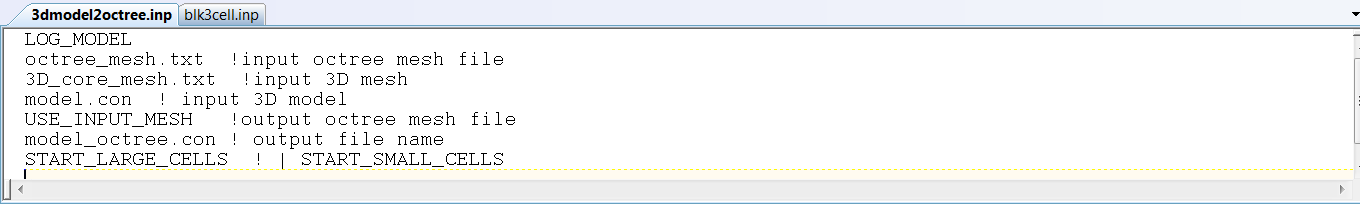
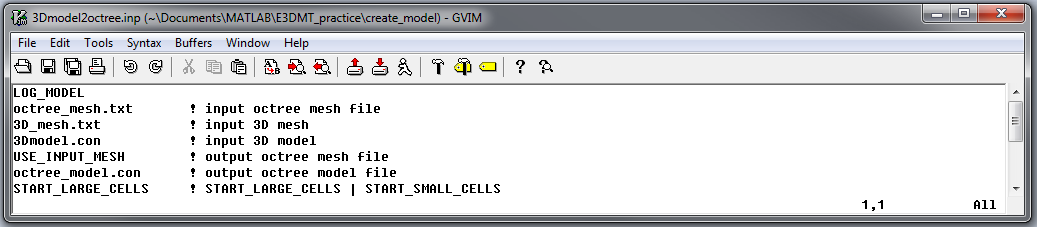
Updates for file types and running programs

diff --git a/content/programs/createModel.rst b/content/programs/createModel.rst
@@ -3,15 +3,15 @@
 Create Model
 ============
 
-Conductivity models used within the forward modeling and inversion codes are generated by carrying out a 2-step process. First, the program **blk3cell.exe** is executed to creates a conductivity model on the core 3D tensor mesh which was output by the code :ref:`MTcreate_octree_mesh_e3d.exe<e3dmt_octree>`; see :ref:`outputs<e3dmt_octree_output>`. This model is comprised of a set of overlapping rectangular blocks whose locations, dimensions and conductivities are specified in **blk3cell.inp**.
+:ref:`Models<modelFile>` (conductivity/susceptibility/active) used within the forward modeling and inversion codes are generated by carrying out a 2-step process. First, the program **blk3cell.exe** is executed to create a model on the base 3D :ref:`tensor mesh<tensorFile>` (**3D_mesh.txt**) which was output by the code :ref:`MTcreate_octree_mesh_e3d.exe<e3dmt_octree>`; see :ref:`outputs<e3dmt_octree_output>`. This model is comprised of a set of overlapping rectangular blocks whose locations, dimensions and values are specified within **blk3cell.inp**.
 
-Next, **3Dmodel2octree.exe** is used to interpolate the tensor model onto an Octree mesh. The tensor mesh (**3D_core_mesh.txt**), tensor conductivity model (**3Dmodel.con**) and octree mesh (**octree_mesh.txt**) are specified in the file **3Dmodel2octree.inp**.
+Next, **3Dmodel2octree.exe** is used to interpolate the tensor model onto an :ref:`Octree mesh<octreeFile>`. The tensor mesh (**3D_mesh.txt**), tensor :ref:`model<modelFile>` (**3Dmodel.con**) and octree mesh (**octree_mesh.txt**) are specified in the file **3Dmodel2octree.inp**.
 
 
 Running blk3cell
 ----------------
 
-To generate the tensor model on the core tensor mesh, open a command line window in the directory which contains the input files (**blk3cell.inp** and **3D_core_mesh.txt**). In order, enter the path to **blk3cell.exe**, followed by the core mesh file name (**3D_core_mesh.txt**), followed by the input file (**blk3cell.inp**), followed by the desired name for the output conductivity model file (**3Dmodel.con**), all separated by spaces.
+To generate the tensor model on the core tensor mesh, open a command window. In order, enter the path to **blk3cell.exe**, followed by the path to the tensor mesh file name (**3D_mesh.txt**), followed by the path to the input file (**blk3cell.inp**), followed by the desired name (or full path) for the output model file (**3Dmodel.con**), all separated by spaces. 
 
 .. figure:: images/run_create_model.png
      :align: center
@@ -23,20 +23,20 @@ To generate the tensor model on the core tensor mesh, open a command line window
 Input File
 ^^^^^^^^^^
 
-The file **blk3cell.inp** defines the conductivity model. The user specifies the location, dimensions and conductivities for a set of blocks. All undefined regions cells within the mesh are set to the background conductivity value. The format for this file is as follows:
+The file **blk3cell.inp** defines the model (conductivity/susceptibility/active). The user specifies the locations, dimensions and values for a set of blocks. All undefined cells within the mesh are set to the background value. The format for this file is as follows:
 
 |
-| :math:`\sigma_b \;\;\;\;\;\;\;\;\;\;\;\;\;\;\;\;\;\;\;\;\;\;\;\;`  ! background conductivity
-| :math:`N \;\;\;\;\;\;\;\;\;\;\;\;\;\;\;\;\;\;\;\;\;\;\;\;`  ! number of blocks
-| :math:`x_1^{(1)} \;\;  x_2^{(1)} \;\; y_1^{(1)} \;\; y_2^{(1)} \;\; z_1^{(1)} \;\; z_2^{(1)} \;\; \sigma^{(1)} \;\;\;\;\;\;\;\;\;\;\;\;` ! Block 1
-| :math:`x_1^{(2)} \;\;  x_2^{(2)} \;\; y_1^{(2)} \;\; y_2^{(2)} \;\; z_1^{(2)} \;\; z_2^{(2)} \;\; \sigma^{(2)} \;\;\;\;\;\;\;\;\;\;\;\;` ! Block 2
+| :math:`\sigma_b \;\;\;\;\;\;\;\;\;\;\;\;\;\;\;\;\;\;\;\;\;\;\;\;\;\;\;\;\;\;\;\;\;\;\;\;\;\;\;\;\;\;\;\;\;\;\;\;`  ! background conductivity/susceptibility
+| :math:`N \;\;\;\;\;\;\;\;\;\;\;\;\;\;\;\;\;\;\;\;\;\;\;\;\;\;\;\;\;\;\;\;\;\;\;\;\;\;\;\;\;\;\;\;\;\;\;\;`  ! number of blocks
+| :math:`x_1^{(1)} \;\;  x_2^{(1)} \;\; y_1^{(1)} \;\; y_2^{(1)} \;\; z_1^{(1)} \;\; z_2^{(1)} \;\; m^{(1)} \;\;\;\;\;\;\;\;\;\;\;\;` ! Block 1
+| :math:`x_1^{(2)} \;\;  x_2^{(2)} \;\; y_1^{(2)} \;\; y_2^{(2)} \;\; z_1^{(2)} \;\; z_2^{(2)} \;\; m^{(2)} \;\;\;\;\;\;\;\;\;\;\;\;` ! Block 2
 | :math:`\;\;\;\;\;\;\;\;\;\;\;\;\;\;\;\;\;\;\;\;\;\;\;\; \vdots`
-| :math:`x_1^{(N)} \;\;  x_2^{(N)} \;\; y_1^{(N)} \;\; y_2^{(N)} \;\; z_1^{(N)} \;\; z_2^{(N)} \;\; \sigma^{(N)} \;\;\;\;\;\;\;\;\;\;\;\;` ! Block N
+| :math:`x_1^{(N)} \;\;  x_2^{(N)} \;\; y_1^{(N)} \;\; y_2^{(N)} \;\; z_1^{(N)} \;\; z_2^{(N)} \;\; m^{(N)} \;\;\;\;\;\;\;\;\;\;\;\;` ! Block N
 |
 |
 |
 
-where superscript :math:`(i)` for :math:`i=1,2,...,N` refers to a particular block. :math:`x_1,x_2,y_1,y_2,z_1` and :math:`z_2` define the nodes of each block and :math:`\sigma` defines the conductivity. An example is shown below.
+where superscript :math:`(i)` for :math:`i=1,2,...,N` refers to a particular block. :math:`x_1,x_2,y_1,y_2,z_1` and :math:`z_2` define the nodes of each block and :math:`m` defines conductivity/susceptibility value. An example is shown below.
 
 
 .. figure:: images/e3dmt_blk3cell_input.png
@@ -47,13 +47,13 @@ where superscript :math:`(i)` for :math:`i=1,2,...,N` refers to a particular blo
 Output
 ^^^^^^
 
-**blk3cell.exe** outputs a conductivity model (**3Dmodel.con**) which contain a single conductivity value for each cell in the tensor mesh **3D_core_mesh.txt**.
+**blk3cell.exe** outputs a :ref:`model<modelFile>` (**3Dmodel.con**) which contains a single value for each cell in the tensor mesh **3D_mesh.txt**.
 
 
 Running 3Dmodel2Octree
 ----------------------
 
-To interpolate the model from a tensor mesh to an Octree mesh, open a command line window in the directory which contains the input files (**3Dmodel2octree.inp**, **octree_mesh.txt**, **3D_core_mesh.txt** and **3Dmodel.con**). Enter the path to **3DModel2Octree.exe** followed by a space followed by **3Dmodel2octree.inp**; the mesh and conductivity information is specified in the input file.
+To interpolate the model from a tensor mesh to an Octree mesh, open a command window. Enter the path to **3DModel2Octree.exe** followed by a space followed by the path to **3Dmodel2octree.inp**; the mesh and conductivity information is specified in the input file.
 
 
 .. figure:: images/run_3Dmodel2octree.png
@@ -64,13 +64,13 @@ To interpolate the model from a tensor mesh to an Octree mesh, open a command li
 Input File
 ^^^^^^^^^^
 
-The file **Model2Octree.inp** contains the paths to the tensor mesh (**3D_core_mesh.txt**), tensor conductivity model (**3Dmodel.con**) and octree mesh (**octree_mesh.txt**) as well as other necessary parameters. The format of the input file is as follows:
+The file **Model2Octree.inp** contains the paths to the tensor mesh (**3D_mesh.txt**), tensor model (**3Dmodel.con**) and octree mesh (**octree_mesh.txt**) as well as other necessary parameters. The format of the input file is as follows:
 
 |
 | :math:`Model \; Type \;\;\;\;\;\;\;\;\;` ! Either *LIN_MODEL* or *LOG_MODEL*
 | :math:`Octree \; mesh\;\;\;\;\;\;\;\;\;` ! File path to Octree mesh
 | :math:`Tensor \; mesh\;\;\;\;\;\;\;\;\;` ! File path to tensor mesh
-| :math:`Tensor \; model\;\;\;\;\;\;\;\;\;` ! 3D conductivity more on tensor mesh
+| :math:`Tensor \; model\;\;\;\;\;\;\;\;\;` ! 3D model on tensor mesh
 | :math:`Output \; mesh \; name\;\;\;\;\;\;\;\;\;` ! Name for duplicate Octree mesh or enter *USE_INPUT_MESH*
 | :math:`Output \; model \; name\;\;\;\;\;\;\;\;\;` ! File name for conductivity model on Octree mesh
 | :math:`Start \; point \;\;\;\;\;\;\;\;\;` ! Either :ref:`START_LARGE_CELLS<e3dmt_octree_ln9>` or :ref:`START_SMALL_CELLS<e3dmt_octree_ln9>`
@@ -79,19 +79,25 @@ The file **Model2Octree.inp** contains the paths to the tensor mesh (**3D_core_m
 |
 
 
-An example input file is shown below
-
-
+An example input file and the resulting conductivity model on the octree mesh are shown below
 
 .. figure:: images/e3dmt_3DtoOctree_input.png
      :align: center
      :width: 700
 
+     Example input file for 3DModel2Octree.exe.
+
+.. figure:: images/model_example.png
+     :align: center
+     :width: 400
+
+     Octree conductivity model (cut-off :math:`\sigma < 1`) and surface topography for reference. All other cells below surface topography correspond to a background conductivity of :math:`\sigma=0.01` S/m.
+
 
 Output
 ^^^^^^
 
-**3Dmodel2Octree.exe** outputs a conductivity model (**Output model name**) which has been interpolated from a tensor mesh to the Octree mesh.
+**3Dmodel2Octree.exe** outputs a :ref:`model file<modelFile>` (**Output model name**) which has been interpolated from the base :ref:`tensor mesh<tensorFile>` to the :ref:`Octree mesh<octreeFile>`.
 
 
 

diff --git a/content/programs/createOcTree.rst b/content/programs/createOcTree.rst
@@ -3,12 +3,12 @@
 Create OcTree Mesh
 ==================
 
-OcTree meshes used in the E3DMT code are created using the program **MTcreate_octree_mesh_e3d.exe**. Parameters necessary for defining the OcTree mesh are set in the file **MTcreate_mesh.inp**.
+:ref:`OcTree meshes<octreeFile>` used in the E3DMT code are created using the program **MTcreate_octree_mesh_e3d.exe**. Parameters necessary for defining the OcTree mesh are set in the file **MTcreate_mesh.inp**.
 
 Running MTcreate_octree_mesh_e3d
 --------------------------------
 
-To generate an OcTree mesh, open a command line window in the directory which contains the :ref:`input file<e3dmt_octree_input>` and all other necessary files. Type the path to the code **MTcreate_octree_mesh_e3d.exe**, followed by a space, followed by the name of the input file.
+To generate an OcTree mesh, open a command window. Type the path to the code **MTcreate_octree_mesh_e3d.exe**, followed by a space, followed by the path to the input file.
 
 .. figure:: images/run_create_octree_mesh.png
      :align: center
@@ -25,7 +25,7 @@ The lines of input file (**MTcreate_mesh.inp**) are formatted as follows:
 | :ref:`x_pad y_pad down_pad up_pad<e3dmt_octree_ln2>`
 | :ref:`dist_1 dist_2 dist_3<e3dmt_octree_ln3>`
 | :ref:`n1 n2 n3<e3dmt_octree_ln4>`
-| :ref:`dataFile<e3dmt_octree_ln5>`
+| :ref:`locFile<e3dmt_octree_ln5>`
 | :ref:`topoFile<e3dmt_octree_ln6>`
 | :ref:`shift_data<e3dmt_octree_ln7>`
 | :ref:`interp_topo<e3dmt_octree_ln8>`
@@ -61,7 +61,7 @@ The lines of input file (**MTcreate_mesh.inp**) are formatted as follows:
 
 .. _e3dmt_octree_ln5:
 
-	- **dataFile:** File path to a :ref:`data points<dataFile_points>` or :ref:`observed data<dataFile_obs>` file
+	- **locFile:** Contains the locations of the receivers. The user may either enter the file path to an :ref:`observed data<dataFile_obs>` file, or the flag "ONLY_LOC" followed by the path to a :ref:`data points<dataFile_points>` file. 
 
 .. _e3dmt_octree_ln6:
 
@@ -80,12 +80,11 @@ The lines of input file (**MTcreate_mesh.inp**) are formatted as follows:
 	- **start_point:** Set as either "START_LARGE_CELLS" or "START_SMALL_CELLS". This line sets the starting point for the mesh generation. Starting the mesh population from large cells greatly reduces initial memory required and is therefore suggested. Large cells are divided in this algorithm to produce the OcTree mesh.
 
 
-.. figure:: images/create_octree_input.png
+.. figure:: images/octree_example.png
      :align: center
-     :width: 700
+     :width: 400
 
-     OcTree mesh created with the above input file. Truncation in the horizontal and vertical have been used to cell sizes in various portions of the mesh.
-
+     Octree mesh showing and surface topography. Cells below the surface topography are assigned a value of 1 in the active cells model.
 
 Approximate versus Good Topography
 ^^^^^^^^^^^^^^^^^^^^^^^^^^^^^^^^^^
@@ -95,7 +94,7 @@ Below, we see the difference between entering "APPROXTOPO" (top) and "GOODTOPO" 
 
 .. figure:: images/create_octree_topo.png
      :align: center
-     :width: 700
+     :width: 500
 
 .. _e3dmt_octree_output:
 
@@ -104,13 +103,13 @@ Output Files
 
 The program **MTcreate_octree_mesh_e3d.exe** creates 5 output files:
 
-	- **3D_mesh.txt:** the regular underlying tensor mesh, number of cells in each direction (powers of 2)
+	- **3D_mesh.txt:** the underlying regular :ref:`tensor mesh<tensorFile>`. This mesh is comprised of the smallest cell size and is very large (>> 1M cells). As a result, it is unwise to plot this mesh.
 
-	- **3D_core_mesh.txt:** the same as 3D mesh.txt, summary for the core region
+	- **3D_core_mesh.txt:** A 3D regular :ref:`tensor mesh<tensorFile>` defining the core region. 
 
-	- **octree_mesh.txt:** OcTree mesh used in the forward modeling and inversion codes
+	- **octree_mesh.txt:** :ref:`OcTree mesh<octreeFile>` used in the forward modeling and inversion codes
 
-	- **active_cells.txt:** active cells model on the OcTree mesh. Cells are active if assigned a value of 1 and inactive if assigned a value of 0 
+	- **active_cells.txt:** :ref:`active cells model<modelFile>` on the OcTree mesh. Cells are active if assigned a value of 1 and inactive if assigned a value of 0 
 
 	- **create_mesh.log:** log file
 

diff --git a/content/programs/forward.rst b/content/programs/forward.rst
@@ -3,19 +3,21 @@
 Forward Modeling Program
 ========================
 
-The forward problem is solved using the executable program **e3dMTfwd.exe**. 
+The forward problem is solved using the executable program **e3dMTfwd.exe**. Parameters necessary for running the forward modeling code are set in the file **e3dMT_octree_fwd.inp**.
 
 Running the Program
 -------------------
 
+To run the forward modeling program, open a command line window. Type the path to the code **e3dMTfwd.exe**, followed by a space, followed by the path to the input file.
 
-**NEED A PRACTICE RUN**
-
-
+.. figure:: images/run_e3dmt_fwd.png
+     :align: center
+     :width: 700
 
 
 Input
 -----
+
 
 The lines of input file (**e3dMT_octree_fwd.inp**) are formatted as follows:
 
@@ -24,16 +26,18 @@ The lines of input file (**e3dMT_octree_fwd.inp**) are formatted as follows:
 | :ref:`Real Conductivity<e3dmt_fwd_ln3>`
 | :ref:`Imaginary Conductivity<e3dmt_fwd_ln4>`
 | :ref:`1D Background Conductivity<e3dmt_fwd_ln5>`
-| :ref:`Topography<e3dmt_fwd_ln6>`
+| :ref:`Background Susceptibility<e3dmt_fwd_ln6>`
+| :ref:`Topography<e3dmt_fwd_ln7>`
 |
 |
 
 
-.. figure:: images/e3dmt_fwd_input.png
+
+.. figure:: images/create_octree_input.png
      :align: center
      :width: 700
 
-     Example input file for solving the forward problem.
+     Example input file for forward modeling program.
 
 
 **Line Descriptions:**
@@ -60,8 +64,11 @@ The lines of input file (**e3dMT_octree_fwd.inp**) are formatted as follows:
 
 .. _e3dmt_fwd_ln6:
 
-    - **Topography:** The user may supply the file path to an active cells model file or type "ALL_ACTIVE". The active cells model has values 1 for cells lying below the surface topography and values 0 for cells lying above.
+    - **Background Susceptibility:** The user may provide the file path to a background susceptibility model on this line. If a constant susceptibility is being used, "VALUE" may be entered and followed by the background susceptibility. For no background susceptibility, the flag "NO_SUS" is used.
 
+.. _e3dmt_fwd_ln7:
+
+    - **Topography:** The user may supply the file path to an active cells model file or type "ALL_ACTIVE". The active cells model has values 1 for cells lying below the surface topography and values 0 for cells lying above.
 
 
 

diff --git a/content/files/model.rst b/content/files/model.rst
@@ -3,27 +3,38 @@
 Model File
 ==========
 
-For a given physical property (conductivity in this case), the model file has the following format:
+For a given model, the model file has the following format:
 
 
 |
-| :math:`\sigma_1`
-| :math:`\sigma_2`
-| :math:`\sigma_3`
-| :math:`\sigma_4`
-| :math:`\sigma_5`
-| :math:`\sigma_6`
+| :math:`m_1`
+| :math:`m_2`
+| :math:`m_3`
+| :math:`m_4`
+| :math:`m_5`
+| :math:`m_6`
 | :math:`\;\vdots`
-| :math:`\sigma_{N-1}`
-| :math:`\sigma_N`
+| :math:`m_{N-1}`
+| :math:`m_N`
 |
 |
 
 where :math:`N` is the total number of cells in the corresponding tensor or Octree mesh.
 
+Conductivity Models
+^^^^^^^^^^^^^^^^^^^
 
+For conductivity models, conductivity values are entered in units S/m.
 
+Susceptibility Models
+^^^^^^^^^^^^^^^^^^^^^
 
+For background susceptibility models, values are entered in SI units.
+
+Active Cells Model
+^^^^^^^^^^^^^^^^^^
+
+Within active cells models, all cells lying below surface topography (or set as active) are given a flag value of 1. All inactive cells are given a flag value of 0.
 
 
 

diff --git a/content/overview.rst b/content/overview.rst
@@ -51,7 +51,7 @@ Since then, improvements have been implemented as time and resources permit.
 E3DMT Program Library Content
 -----------------------------
 
-The E3DMT program library consists of the following executable programs:
+The main executable programs within the E3DMT program library are:
 
     - **MTcreate_octree_mesh_e3d:** Creates the OcTree used in forward simulations and inversions from survey data.
     - **blk3cell:** Creates simple conductivity models on a core tensor mesh
@@ -59,7 +59,7 @@ The E3DMT program library consists of the following executable programs:
     - **e3dMTfwd:** Performs the forward simulation
     - **e3dMTinv:** Inverts observed data in order to recover a conductivity model
 
-  3. **Additional Octree utilities??**.
+Also included are the following Octree utility programs:
 
       - create weight file
       - face weights

diff --git a/content/files/dataFile.rst b/content/files/dataFile.rst
@@ -8,7 +8,7 @@ The data file contains the survey information and includes: the number of transm
 .. note::
     - Bolded entries are fixed flags recognized by the Fortran codes and blue hyperlinked entries are values/regular expressions specified by the user
     - Each unique data type, frequency and set of observation locations corresponds to a unique "transmitter"; e.g. 2 transmitters must be specified if the same data are collected at the same locations at 2 different frequencies.
-    - Each block containing DATATYPE, FREQUENCY, N_RECV and the data array is separated by an empty line
+    - Each block containing DATATYPE, FREQUENCY, N_RECV and the data array
 
 
 The lines of a data file with one or more transmitters are formatted as follows:

diff --git a/content/programs/inversion.rst b/content/programs/inversion.rst
@@ -3,15 +3,16 @@
 Inversion Program
 =================
 
-The inversion is run using the executable program **e3dMTinv.exe**. 
+The inversion is run using the executable program **e3dMTinv.exe**. Parameters necessary for running the forward modeling code are set in the file **e3dMT_octree_inv.inp**.
 
 Running the Program
 -------------------
 
+To run the inversion, open a command line window. Type the path to the code **e3dMTinv.exe**, followed by a space, followed by the path to the input file.
 
-**NEED A PRACTICE RUN**
-
-
+.. figure:: images/run_e3dmt_inv.png
+     :align: center
+     :width: 700
 
 
 Input
